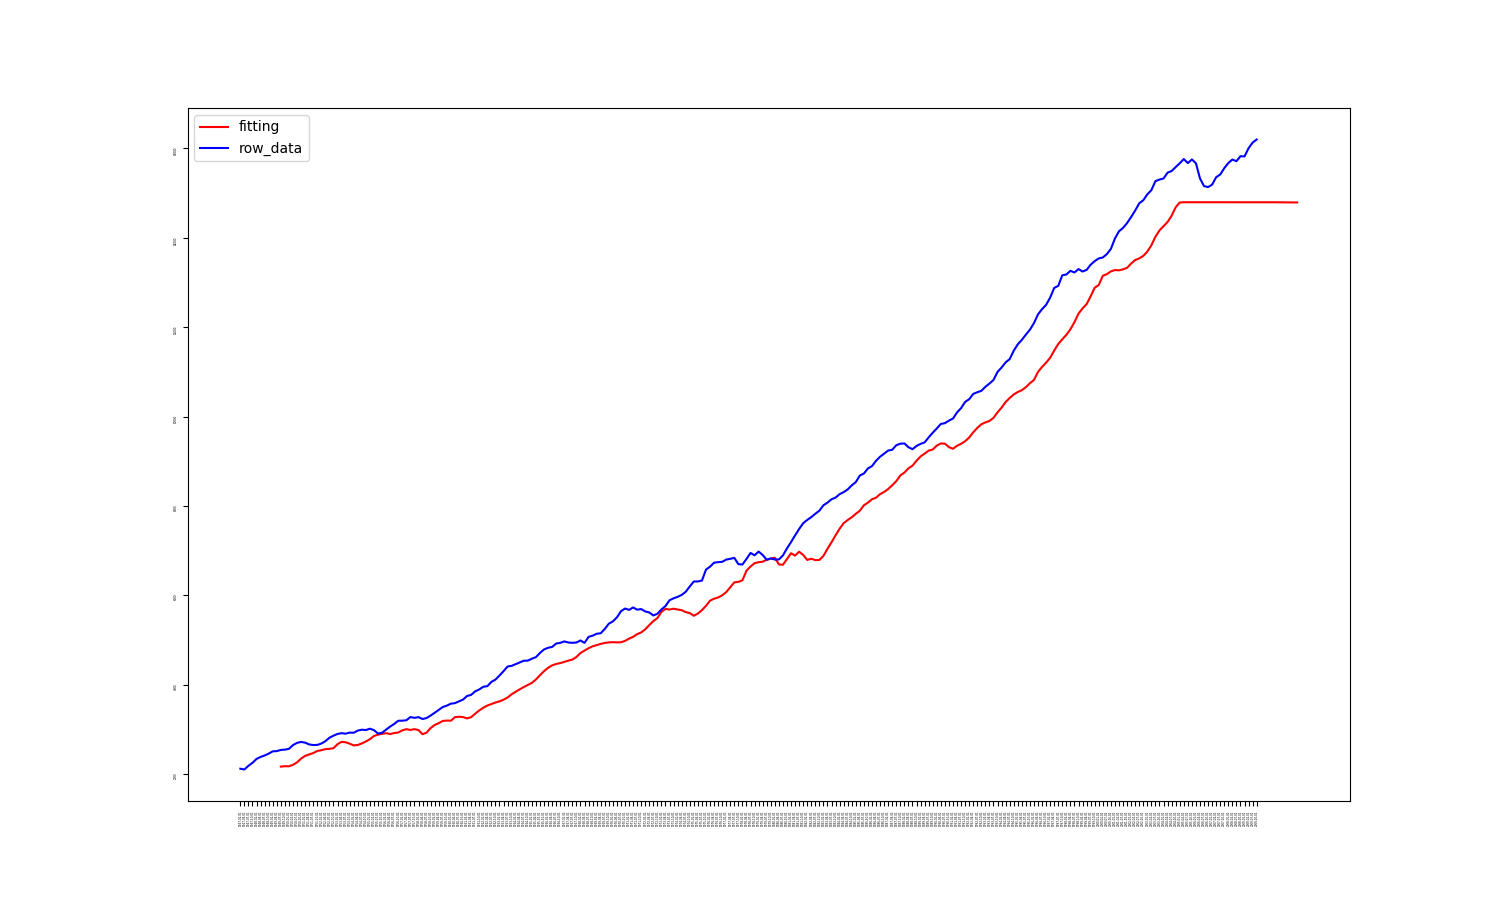
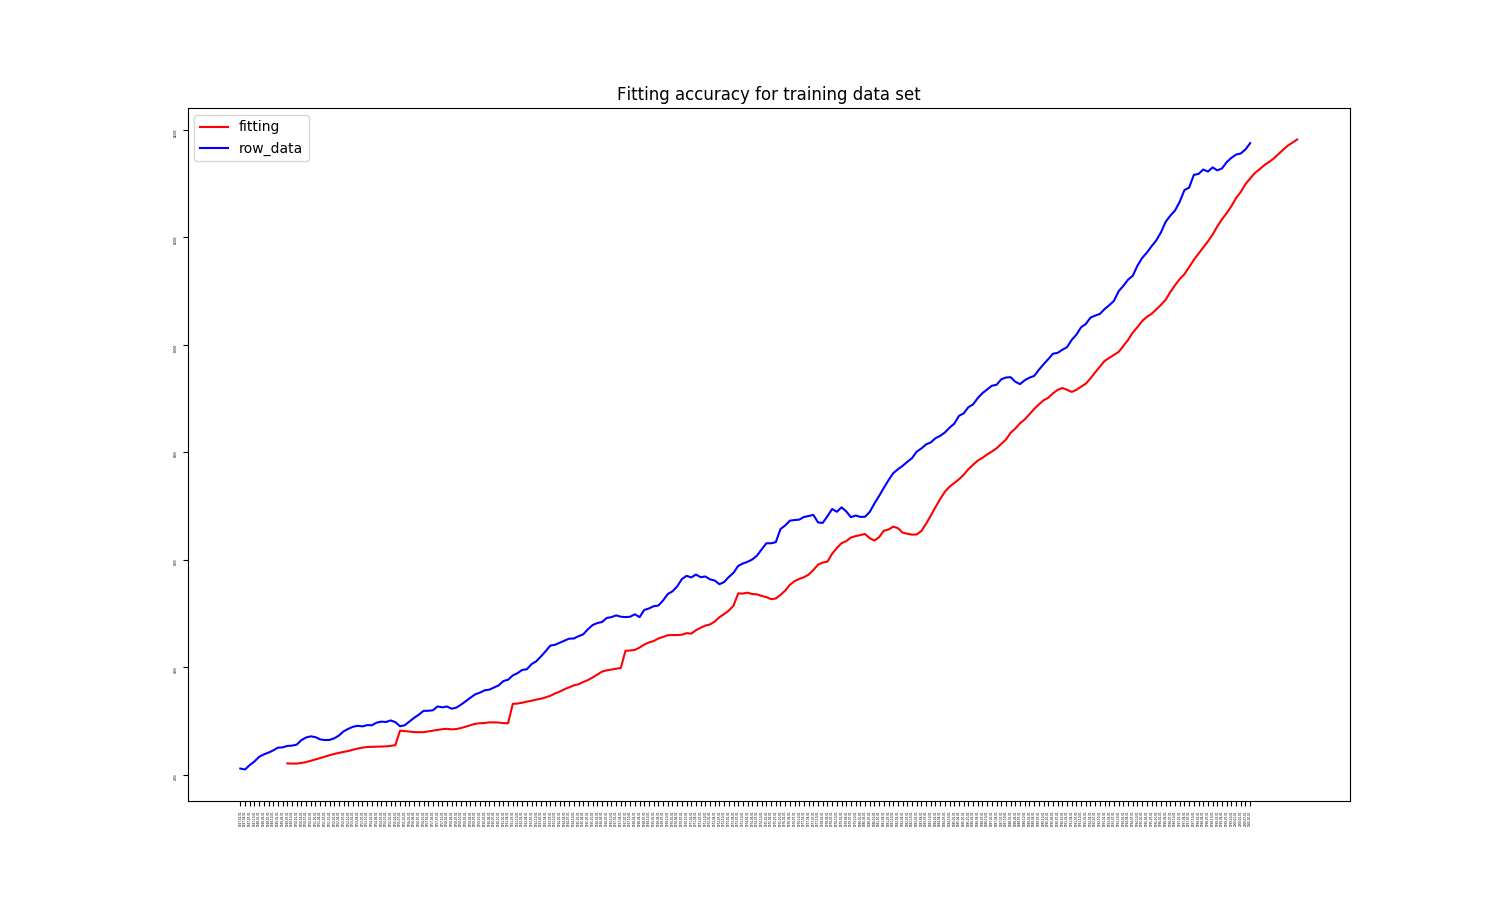
model loss was depicted

diff --git a/src/lstm.py b/src/lstm.py
@@ -1,22 +1,27 @@
+# Import of modules
+## python 3.7.1
+
 import warnings
 from math import *
+import sys
 warnings.filterwarnings('ignore')
 
-from keras.models import Sequential
-from keras.layers.core import Dense, Activation
-from keras.layers.recurrent import LSTM
-from keras.optimizers import Adam
-from keras.callbacks import EarlyStopping
 import pandas as pd
 import numpy as np
 import matplotlib.pyplot as plt
-import sys
+from tqdm import tqdm_notebook
 
-maxlen = 5
-n_hidden = 300
-nepoch = 100
-activation = "linear"
+from keras.models import Sequential
+from keras.layers.recurrent import LSTM
+from keras.optimizers import Adam, RMSprop
+from keras.callbacks import EarlyStopping
+from keras.layers import Dense, Dropout, Activation
 
+from sklearn.preprocessing import MinMaxScaler
+from sklearn.model_selection import train_test_split
+
+
+# Definition of CLI inputs
 maxlen = int(sys.argv[1])
 n_hidden = int(sys.argv[2])
 nepoch = int(sys.argv[3])
@@ -24,97 +29,129 @@ activation = str(sys.argv[4])
 pic_path1 = str(sys.argv[5])
 pic_path2 = str(sys.argv[6])
 
+# maxlen = 5
+# n_hidden = 100
+# nepoch = 1000
+# activation = "linear"
 
-def make_dataset(low_data,  maxlen=25):
 
-    data, target = [], []
+# Definition of functions to data arrangement
 
-    for i in range(len(low_data)-maxlen):
-        data.append(low_data[i:i + maxlen])
-        target.append(low_data[i + maxlen])
+def build_timeseries(mat, y_col_index, TIME_STEPS=maxlen):
+    # y_col_index is the index of column that would act as output column
+    # total number of time-series samples would be len(mat) - TIME_STEPS
+    dim_0 = mat.shape[0] - TIME_STEPS
+    dim_1 = mat.shape[1]
+    x = np.zeros((dim_0, TIME_STEPS, dim_1))
+    y = np.zeros((dim_0,))
 
-    re_data = np.array(data).reshape(len(data), maxlen, 1)
-    re_target = np.array(target).reshape(len(data), 1)
+    for i in tqdm_notebook(range(dim_0)):
+        x[i] = mat[i:TIME_STEPS+i]
+        y[i] = mat[TIME_STEPS+i, y_col_index]
 
-    return re_data, re_target
+    print("length of time-series i/o",x.shape,y.shape)
+    return x, y
+
+
+def trim_dataset(mat, batch_size):
+    """
+    trims dataset to a size that's divisible by BATCH_SIZE
+    """
+    no_of_rows_drop = mat.shape[0]%batch_size
+    if(no_of_rows_drop > 0):
+        return mat[:-no_of_rows_drop]
+    else:
+        return mat
+
+
+
+# Arrangement of the data
+## Reading GDP data
 
 path = "./data/GDPC1.csv"
 df = pd.read_csv(path, index_col="DATE")
 f = np.array(df["GDPC1"])
 
+## Train - Test Split
 
-#nepoch = 10**4
+df_train, df_test = train_test_split(df, train_size=0.8, test_size=0.2, shuffle=False)
+x = df_train[["GDPC1"]].values
 
-
-g, h = make_dataset(f, maxlen=10)
-ttr = train_test_ratio = 0.9
-ttsi = train_test_split_index = round(g.shape[0]*ttr)
-
-tXm = train_X_mean = np.mean(g[:ttsi])
-tXv = train_X_variace = sqrt(np.var(g[:ttsi]))
-
-
-train_X, test_X = (g[:ttsi] - tXm)/sqrt(tXv), (g[ttsi:] - tXm)/sqrt(tXm)
-train_Y, test_Y = (h[:ttsi] - tXm)/sqrt(tXv), (h[ttsi:] - tXm)/sqrt(tXm)
-
-# tXm = train_X_mean = np.max(g[:ttsi])
-# train_X, test_X = g[ttsi:]/tXm, g[ttsi:]/tXm
-# train_Y, test_Y = h[ttsi:]/tXm, h[ttsi:]/tXm
+## Scaling
+min_max_scaler = MinMaxScaler()
+x_train = min_max_scaler.fit_transform(x)
+x_test = min_max_scaler.transform(df_test[["GDPC1"]].values)
 
 
-length_of_sequence = g.shape[1]
-in_out_neurons = 1
-#n_hidden = 300
+## trimming for BATCH_SIZE and length of time series
+
+x_t, y_t = build_timeseries(x_train, 0)
+x_temp, y_temp = build_timeseries(x_test, 0)
+BATCH_SIZE = round((y_temp.shape[0]%10*10) /2)
+BATCH_SIZE = round((y_temp.shape[0]/2))
+#BATCH_SIZE = (y_temp.shape[0]%20*20)
+x_t = trim_dataset(x_t, BATCH_SIZE)
+y_t = trim_dataset(y_t, BATCH_SIZE)
+x_val, x_test_t = np.split(trim_dataset(x_temp, BATCH_SIZE),2)
+y_val, y_test_t = np.split(trim_dataset(y_temp, BATCH_SIZE),2)
 
 
-model = Sequential()
-model.add(LSTM(n_hidden, \
-    batch_input_shape=(None,
-    length_of_sequence,
-    in_out_neurons),
-    return_sequences=False)
-    )
-model.summary()
-model.add(Dense(in_out_neurons))
-model.add(Activation(activation))
-# model.add(Dense(round(n_hidden/10)))
-# model.add(Activation("sigmoid"))
-optimizer = Adam(lr=0.01)
-model.compile(loss="mean_squared_error", optimizer=optimizer)
-#early_stopping = EarlyStopping(monitor='val_loss', mode='auto', patience=20000)
-early_stopping = EarlyStopping(monitor='val_loss', mode='auto', patience=200000)
+# Model construction
 
-model.fit(train_X, train_Y,
-          batch_size=300,
-          epochs=nepoch,
-          validation_split=0.1,
-          callbacks=[early_stopping]
-          )
+lstm_model = Sequential()
+lstm_model.add(LSTM(100, batch_input_shape=(BATCH_SIZE, maxlen, x_t.shape[2]),\
+    dropout=0.0, recurrent_dropout=0.0, stateful=True, kernel_initializer='random_uniform'))
+lstm_model.add(Dropout(0.5))
+lstm_model.add(Dense(n_hidden, activation=activation))
+lstm_model.add(Dense(1,activation='sigmoid'))
+optimizer = RMSprop(lr=0.001)
+lstm_model.compile(loss='mean_squared_error', optimizer=optimizer)
 
-predicted = model.predict(train_X)
-print(predicted)
+
+# Fitting
+history = lstm_model.fit(x_t, y_t, epochs=nepoch, verbose=2, batch_size=BATCH_SIZE,
+                    shuffle=False, validation_data=(trim_dataset(x_val, BATCH_SIZE),
+                    trim_dataset(y_val, BATCH_SIZE)))
+
+
+# plot
+
+predicted = lstm_model.predict(x_t, batch_size=BATCH_SIZE)
+predicted = min_max_scaler.inverse_transform(predicted)
+y_t_inv = min_max_scaler.inverse_transform(y_t.reshape(len(y_t), 1))
 plt.figure(figsize=(15,9))
-plt.plot(range(maxlen,len(predicted)+maxlen), predicted*sqrt(tXv) + tXm, color="r", label="fitting")
-plt.plot(range(0, len(train_Y)), train_Y*sqrt(tXv) + tXm, color="b", label="row_data")
-plt.xticks(range(0, len(train_Y)), df.index[:ttsi])
+plt.plot(range(maxlen,len(predicted)+maxlen), predicted, color="r", label="fitting")
+plt.plot(range(0, len(y_t)), y_t_inv, color="b", label="row_data")
+plt.xticks(range(0, len(y_t)), df.index[:len(y_t)])
 plt.tick_params(labelsize=2, rotation=90)
+plt.title("Fitting accuracy for training data set")
 plt.legend()
 plt.savefig(pic_path1)
-plt.show()
+#plt.show()
 
 
-test_pred = model.predict(test_X)
+test_pred = lstm_model.predict(x_test_t)
+y_test_inv = min_max_scaler.inverse_transform(y_test_t.reshape(len(y_test_t), 1))
+test_pred_inv = min_max_scaler.inverse_transform(test_pred)
 plt.figure(figsize=(15,9))
-plt.plot(range(0, len(test_Y)), test_Y*sqrt(tXv) + tXm, color="blue", label="row_data")
-plt.plot(range(0, len(test_pred)), test_pred*sqrt(tXv) + tXm, color="r", label="prediction")
-plt.xticks(range(0, len(test_Y)), df.index[ttsi:])
+plt.plot(range(0, len(y_test_t)), y_test_inv, color="blue", label="row_data")
+plt.plot(range(0, len(y_test_t)), test_pred_inv, color="r", label="prediction")
+plt.xticks(range(0, len(y_test_t)), df.index[len(y_t):])
 plt.tick_params(labelsize=6, rotation=90)
+plt.title("Prediction accuracy for test data set")
 plt.legend()
 plt.savefig(pic_path2)
-plt.show()
+#plt.show()
 
 
+
+plt.plot(lstm_model.history.history["loss"])
+plt.plot(lstm_model.history.history["val_loss"])
+plt.title("model loss")
+plt.xlabel("loss")
+plt.legend(["train", "validation"])
+plt.savefig("result/pictures/example_of_model_loss.png")
 
 print("rmse : ")
-dif = sum(test_pred - test_Y)
+dif = sum(test_pred_inv - y_test_inv)
 print(sqrt(dif**2))

diff --git a/README.md b/README.md
@@ -8,7 +8,15 @@ In the source code "src/lstm.py ", LSTM program was implenmented.
 
 <image src="pics/lstm_system.png">
 
-<image src="result/pictures/lstm/len5_neuron100_epoch1000_len10_neuron100_epoch1000_linear_activtion_fitting.png">
+
+<image src="result/pictures/lstm/len5_neuron300_epoch1000_linear_activtion_fitting.png">
+
+
+### Example of model loss
+
+<image src="result/pictures/example_of_model_loss.png">
+
+<!-- <image src="result/pictures/lstm/len5_neuron300_epoch1000_linear_activtion_pred.png"> -->
 
 ## [2] CNN
 Application of Convolution Network to real time series data is now, struggling me.
